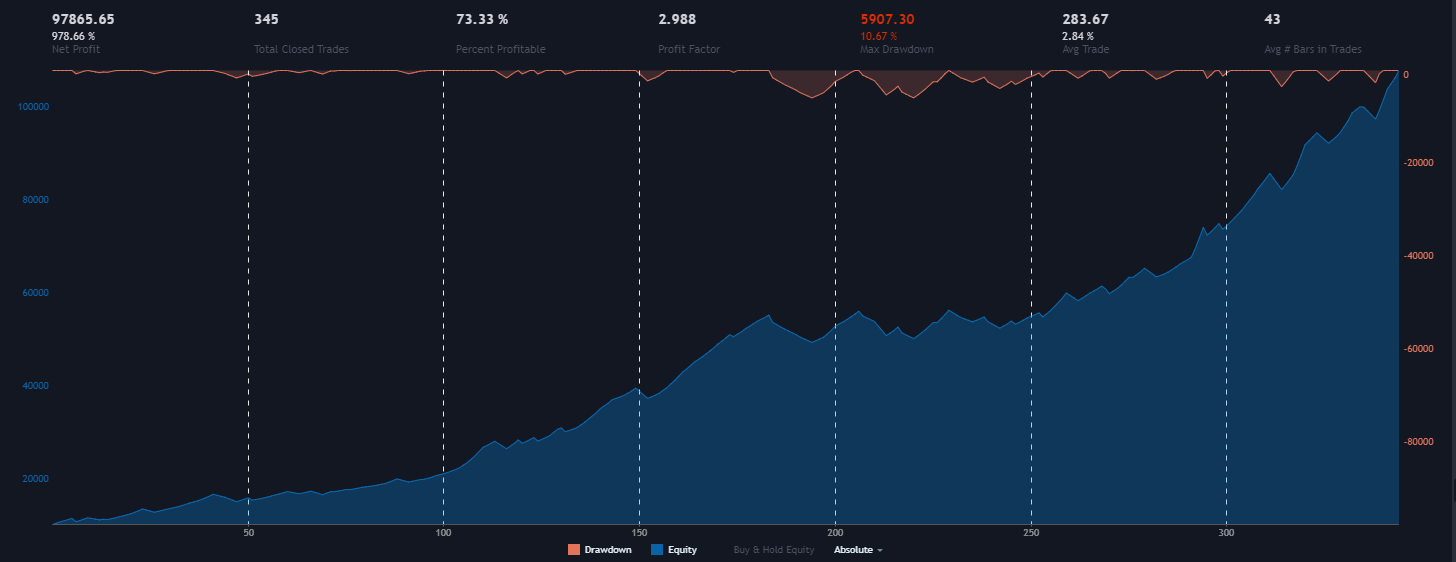
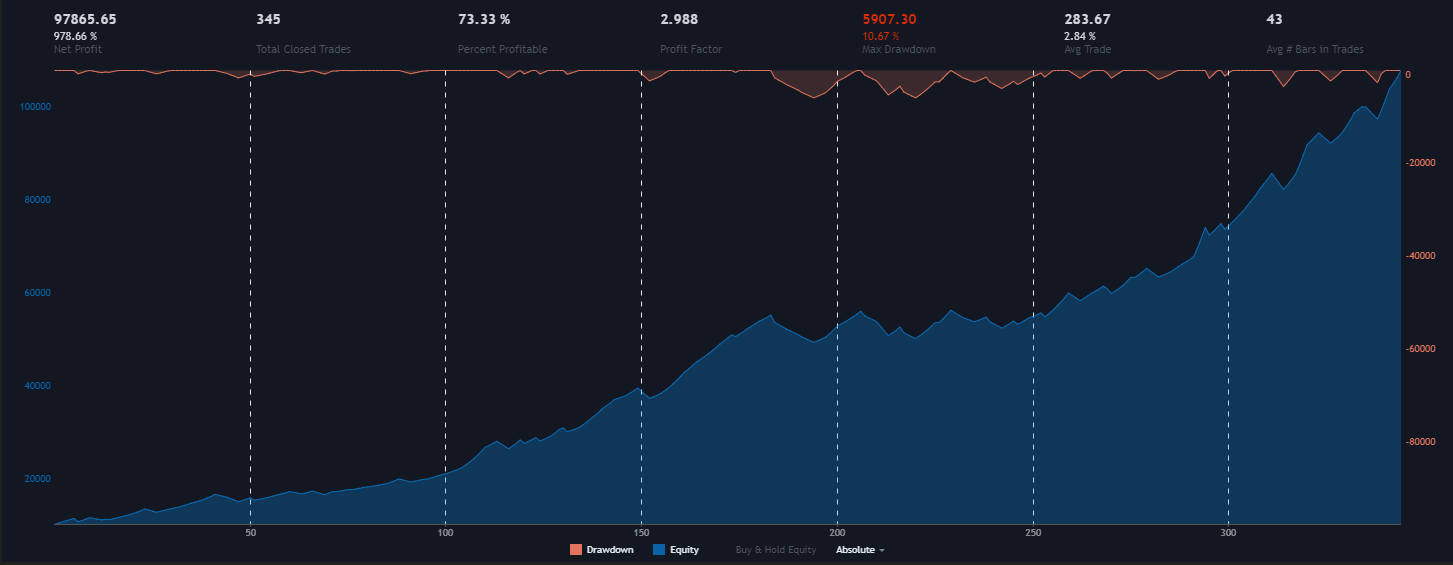
btc image error fixed

diff --git a/components/img/MiBotBTC.tsx b/components/img/MiBotBTC.tsx
@@ -1,6 +1,6 @@
 import Image from "next/image";
 
-import BTC from "../../public/img/BTC.PNG";
+import BTC from "../../public/img/btc.png";
 
 
 export default function MiBotBTC() {
